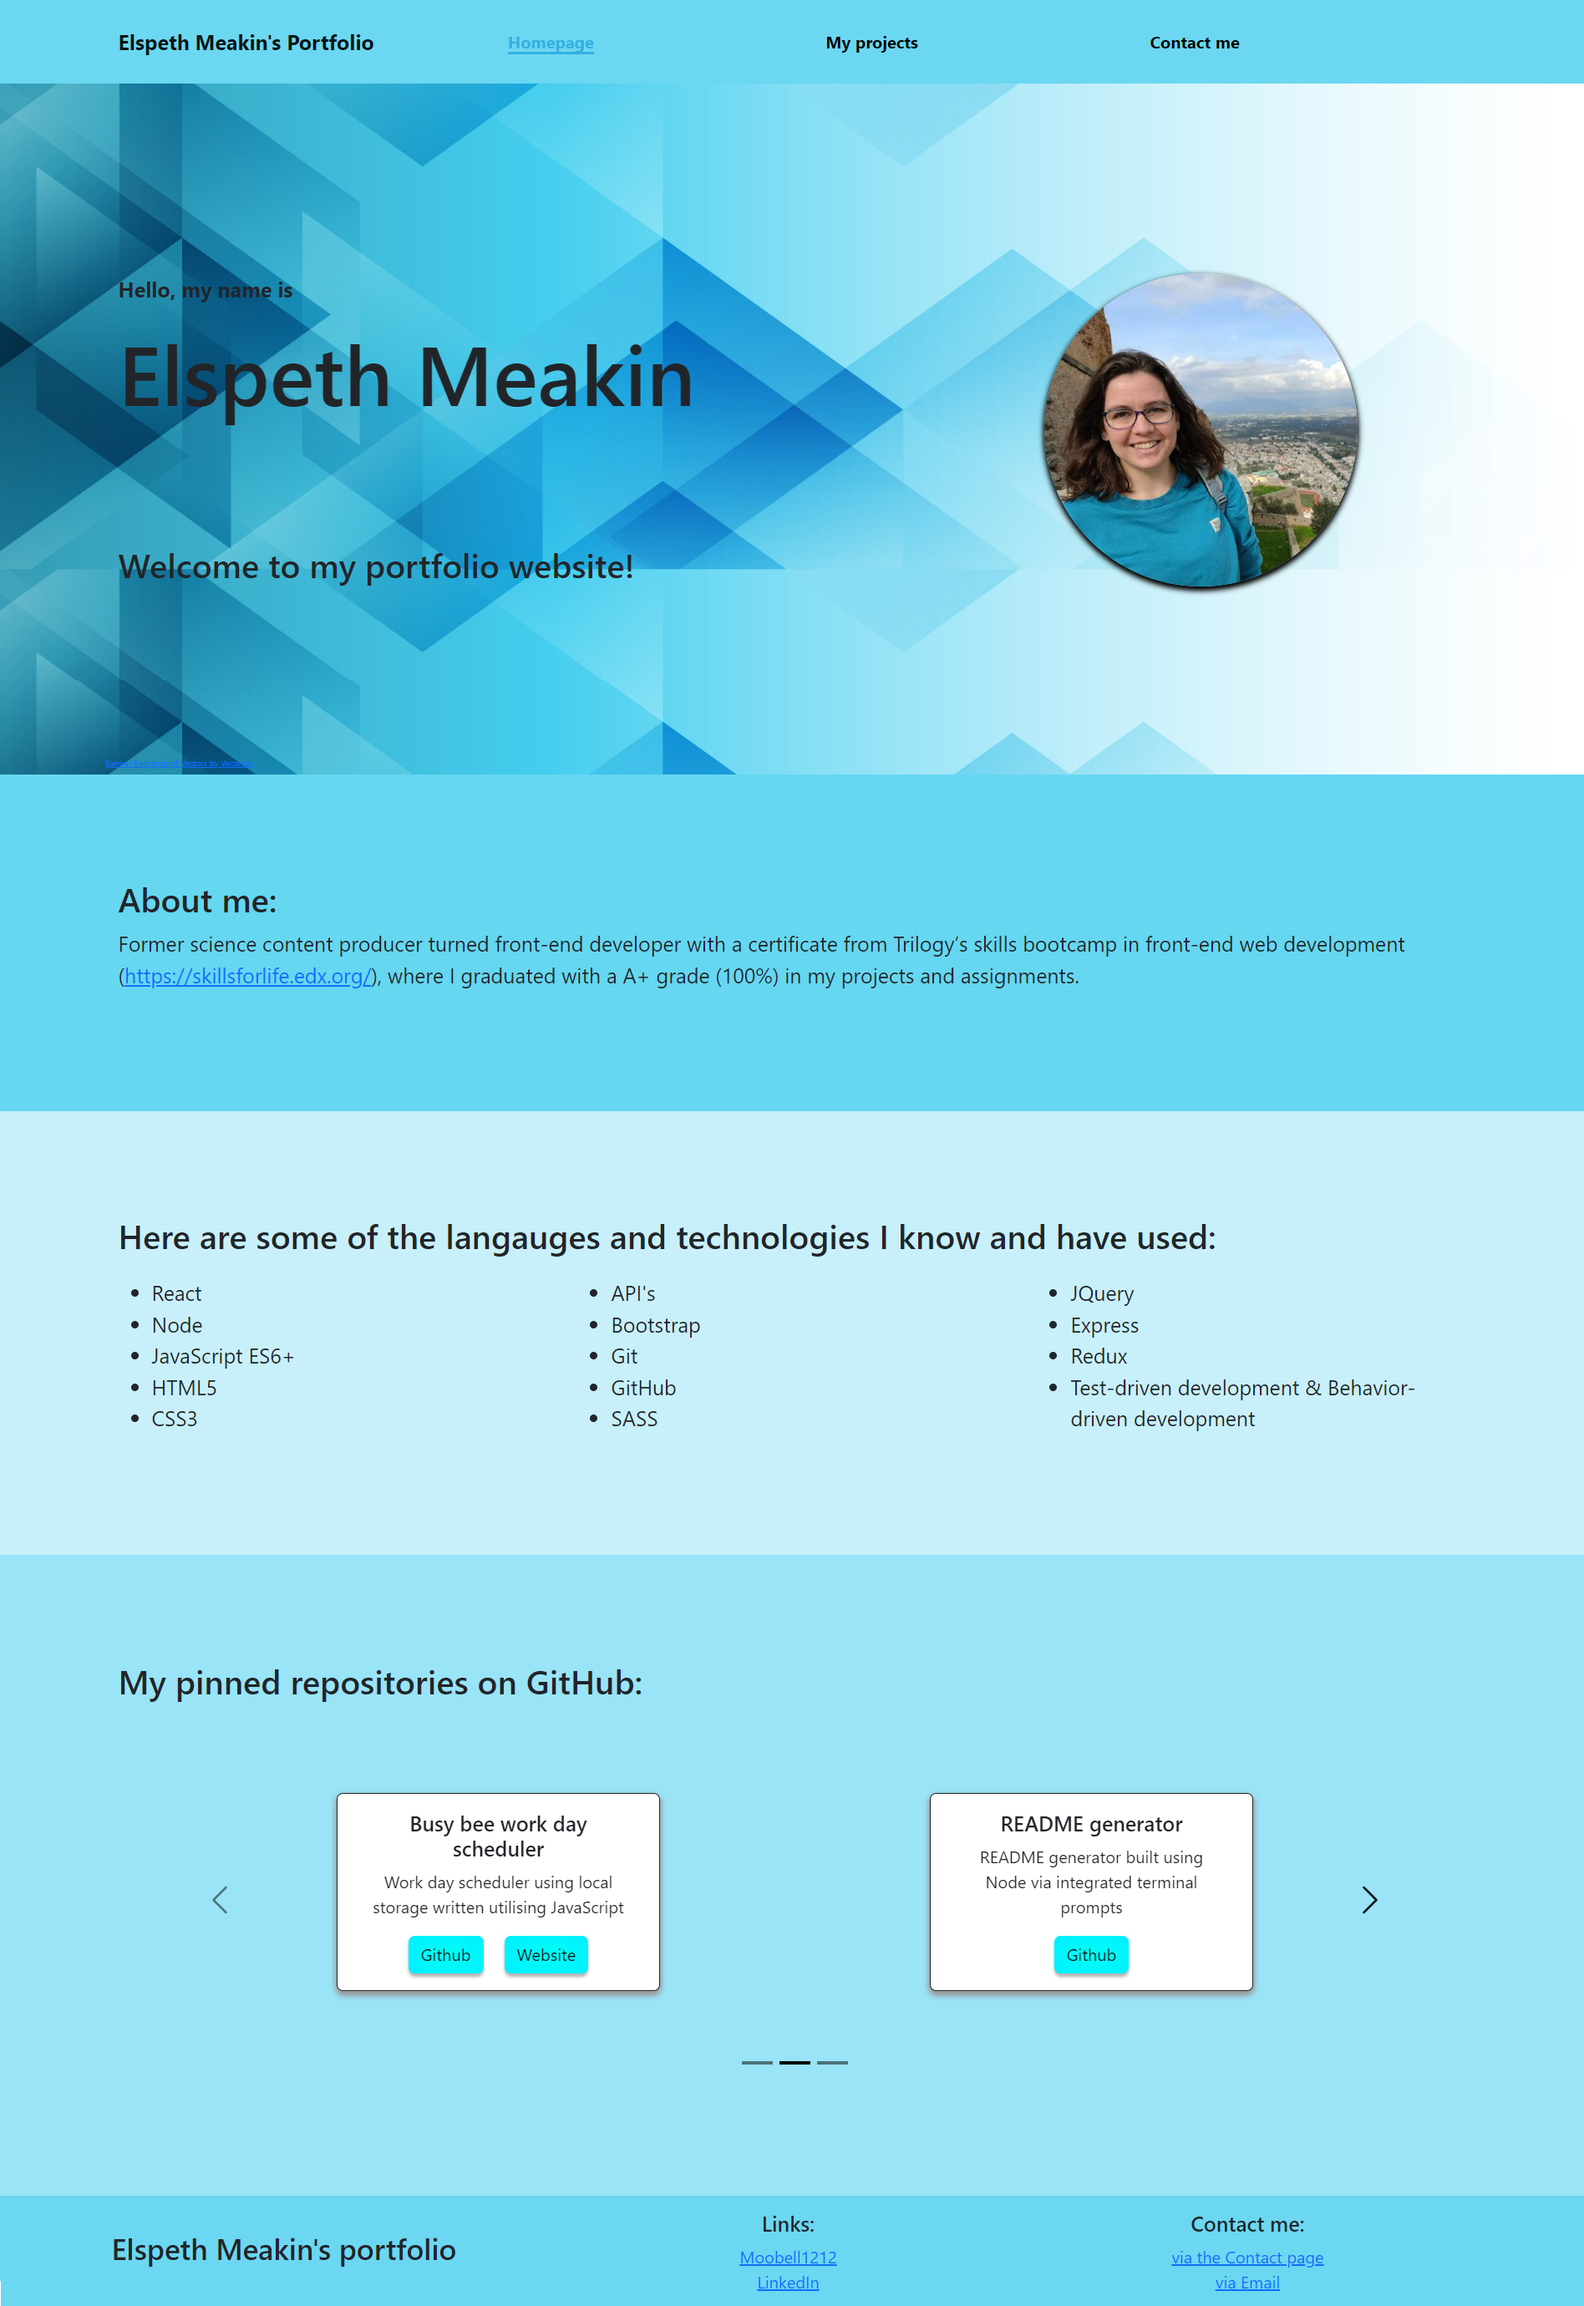
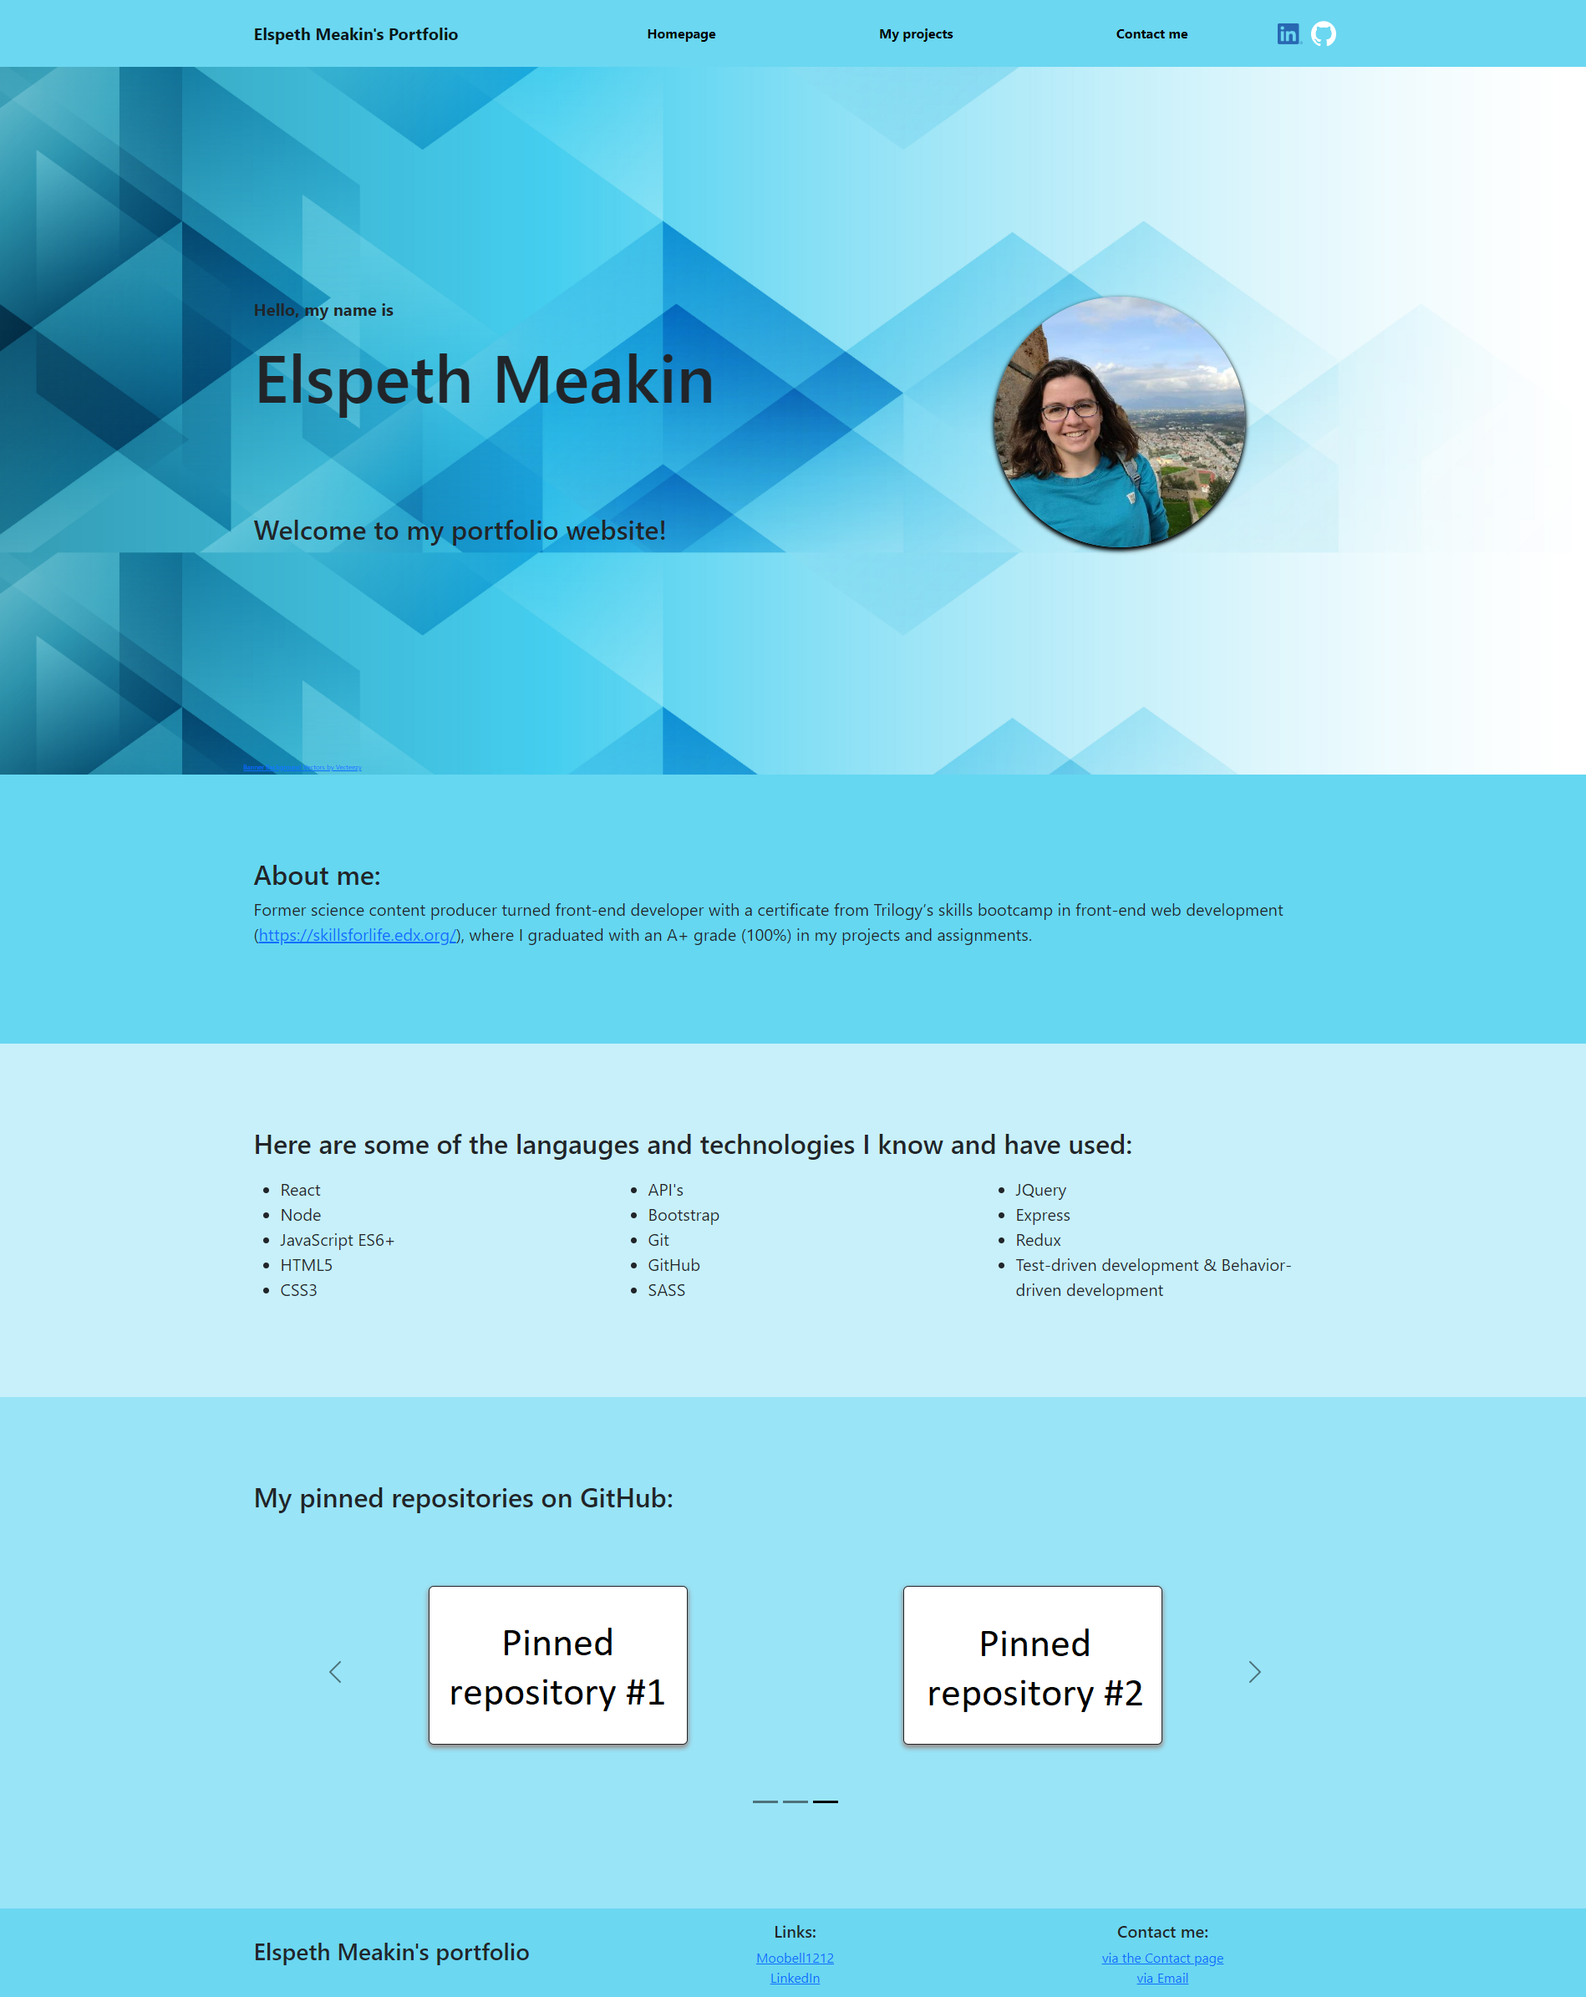
README update

diff --git a/README.md b/README.md
@@ -17,16 +17,17 @@
 This is portfolio built using React, built maingly using API calls from GitHub. It contains a homepage, a projects page, and a contacts page. The navigation bar and footer is rendered to each page.
 
 The homepage contains:
-- A welcome message
+- A welcome message.
 - Information about me and what technologies I know and use.
 - A carousel showing the pinned repositories from my GitHub profile.
 
 The projects page contains:
-
+- A highlighted selection of my past projects .
+- All the repositories on my GitHub with sorting options.
 
 The contacts page contains:
-- Links to my GitHub and LinkedIn
-- A linked photo to a PDF version of my CV
+- Links to my GitHub and LinkedIn.
+- A linked photo to a PDF version of my CV.
 
 </br>
 
@@ -42,7 +43,7 @@ Deployed site: https://moobell1212.github.io/Elspeth-Meakin-s-react-portfolio/
 - [Acknowledgments](#questions)
 
 ## Usage
-- The header and footer renders to every page. The header contains animated  links to the other pages on the portfolio. The footer contains links to my GitHub profile and LinkedIn account, and links to contact me via the contact page and email.
+- The header and footer renders to every page. The header contains animated links to the other pages on the portfolio, and icon links to my GitHub and LinkedIn. The footer contains links to my GitHub profile and LinkedIn account, and links to contact me via the contact page and email.
 
 - The homepage contains:
     - A banner containing:
@@ -71,11 +72,14 @@ Deployed site: https://moobell1212.github.io/Elspeth-Meakin-s-react-portfolio/
     - Bootstrap cards containing all the repositories on my GitHub using the GitHub API call containing:
         - The project title 
         - The GitHub repository description of the project
-        - Dates that the repository was last updated, last pushed, and when it was created.
+        - Dates that the repository was last updated, last pushed, and created.
         - A link to the deployed website (when applicable)
         - A link to the GitHub repository
 
     - Animated filter buttons for the GitHub repositories for the date they are created, the date they were last updated, and the date they were last pushed.
+
+</br>
+<img src="./Images/projects.png">
 
 </br>
 
